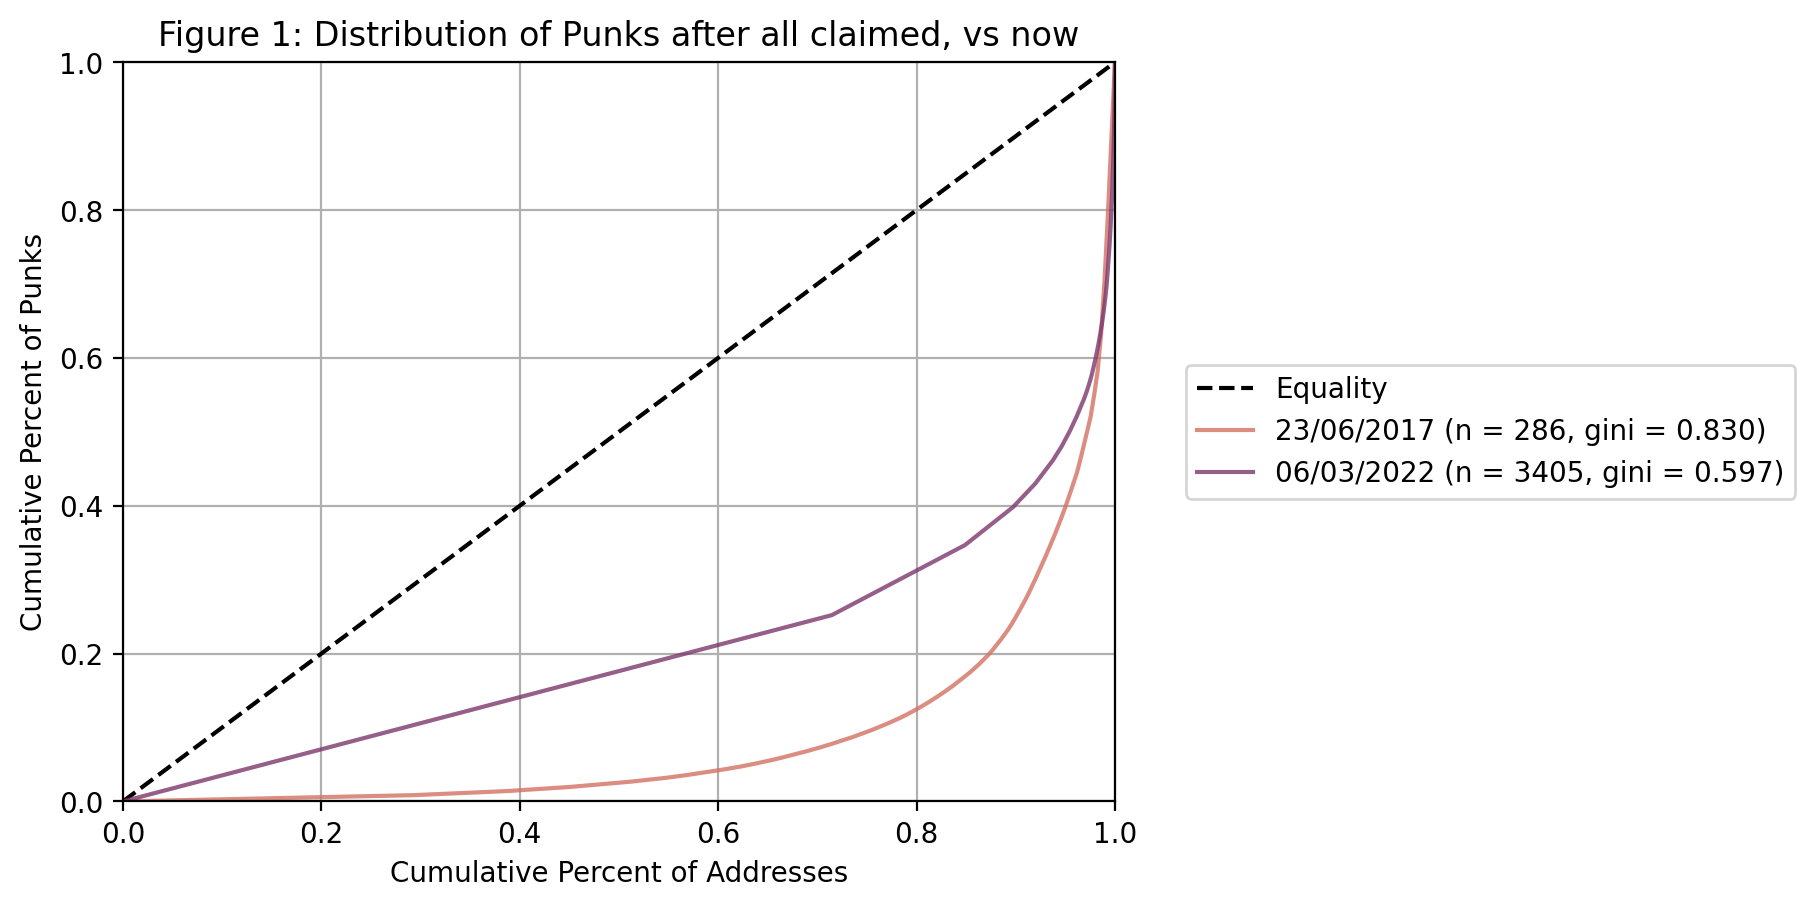
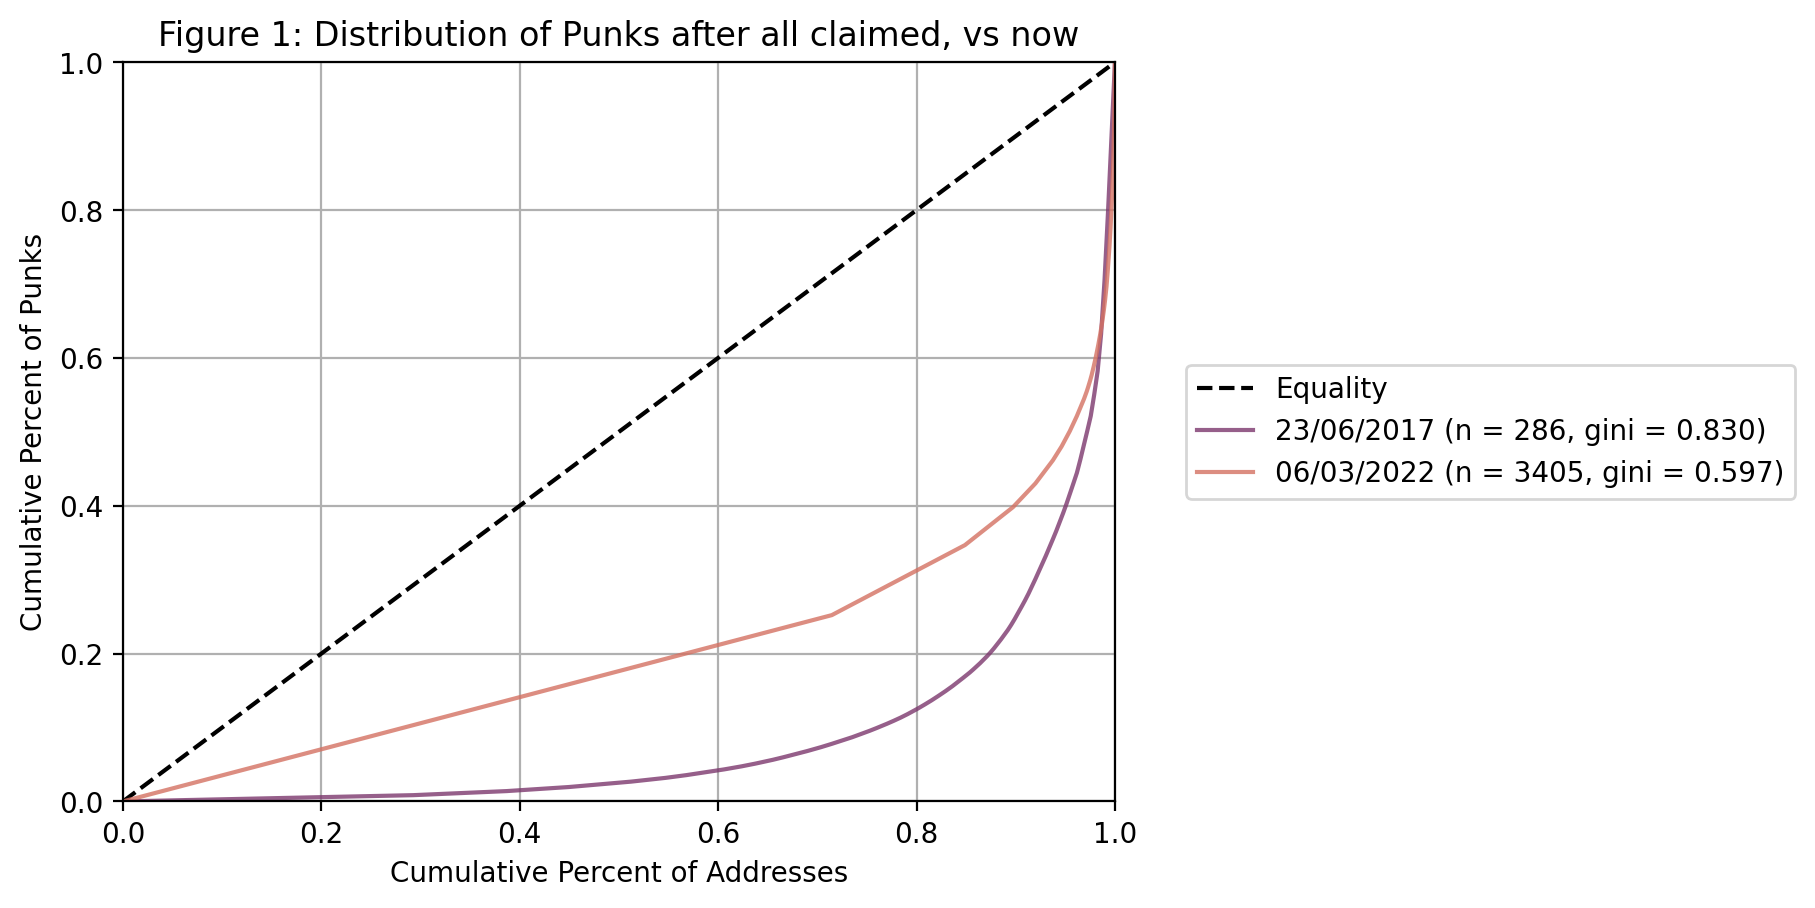
minor README changes, fixed figure 1 colours

diff --git a/code/graph.py b/code/graph.py
@@ -37,7 +37,7 @@ def main() -> None:
             ["balances_after_assigns", "balances"],
             "figure_1",
             "Punks",
-            [False, True, "", ["#D47162", "#7C376D"]],
+            [False, True, "", ["#7C376D", "#D47162"]],
         ),
         # Figure 2: Distribution of punks over time
         (

diff --git a/README.md b/README.md
@@ -48,6 +48,8 @@ emilio@MBP:~/punks-analysis$ rm -rf data && rm -rf figures
 
 Now you, you can run `main.py` and the data will be fetched, cleaned, parsed and graphed.
 
+**NOTE:** This project requires Python version 3.9.10.
+
 ```console
 emilio@MBP:~/punks-analysis$ python3 ./code/main.py
 ```
